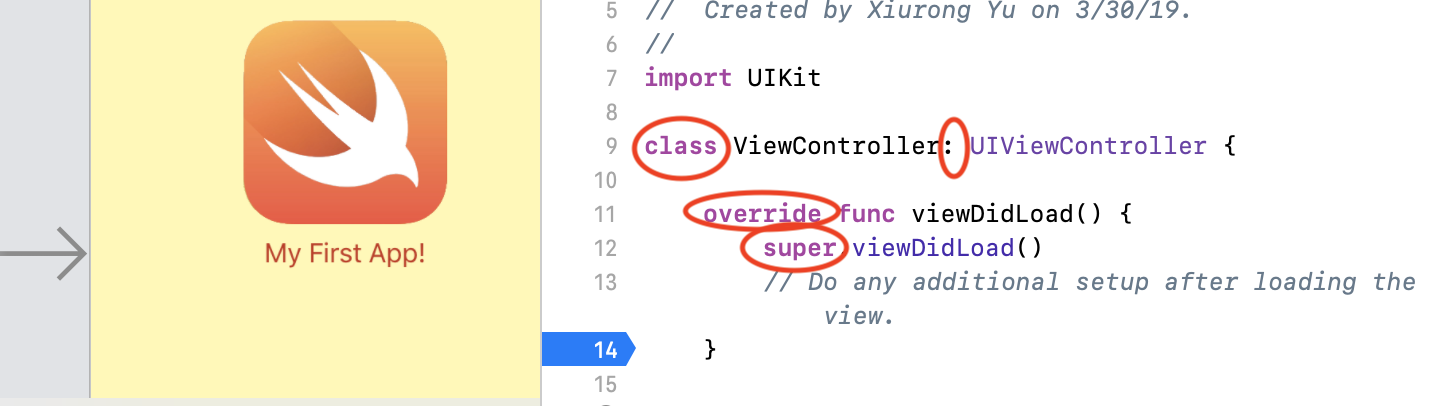
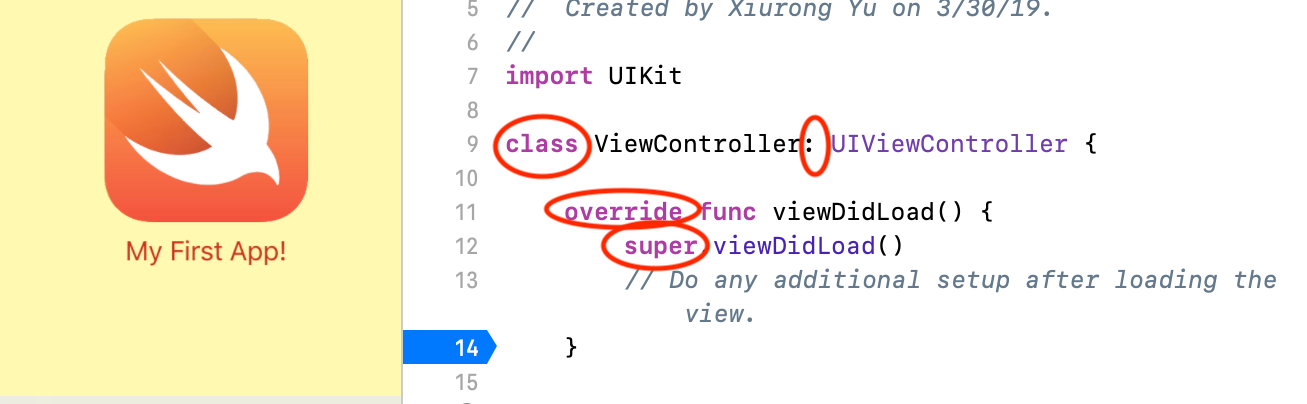
add img

diff --git a/entries/entry3.md b/entries/entry3.md
@@ -196,10 +196,13 @@ for (name, age) in person_age {
 - [ ] Learn how to built a basic timer 
 - [ ] Plan & Built a pomodoro timer  
 
-Now that I have finished the tutorial, next week I will be mostly working with the app rather than the playground. In fact, after the tutorial, I actually felt like I understand the previoud app functions better. For instance, below are the terms I recognize in from what I learned this week.   
+Now that I have finished the tutorial, next week I will be mostly working with the app rather than the playground. In fact, after the tutorial, I actually felt like I understand the previoud app functions better.  
+
+For instance, below are the **terms I recognized** from what I learned this week.   
 <p align="center">
-    <img src = ""/>
-</p>
+    <img src = "https://raw.githubusercontent.com/xiurongy3506/swift_independent_study/master/img/recognize.png"/>
+</p>  
+The code is showing that ViewController is a inheritance of the class UIViewController, and it is redefining the parent function using override. Within the override function, there is a reference to the parent class that loads the view. 
 
 ## Takeaways  
 1. **Break things down.** There's so much I have to do to learn how to create an app realizing that I couldn't do everything at once. Unfortunatly, this week, I wasn't able to utilize cocoapods and play around with it due to limited time. As a result, I prioritized finishing up the tutorial for swift first.   
